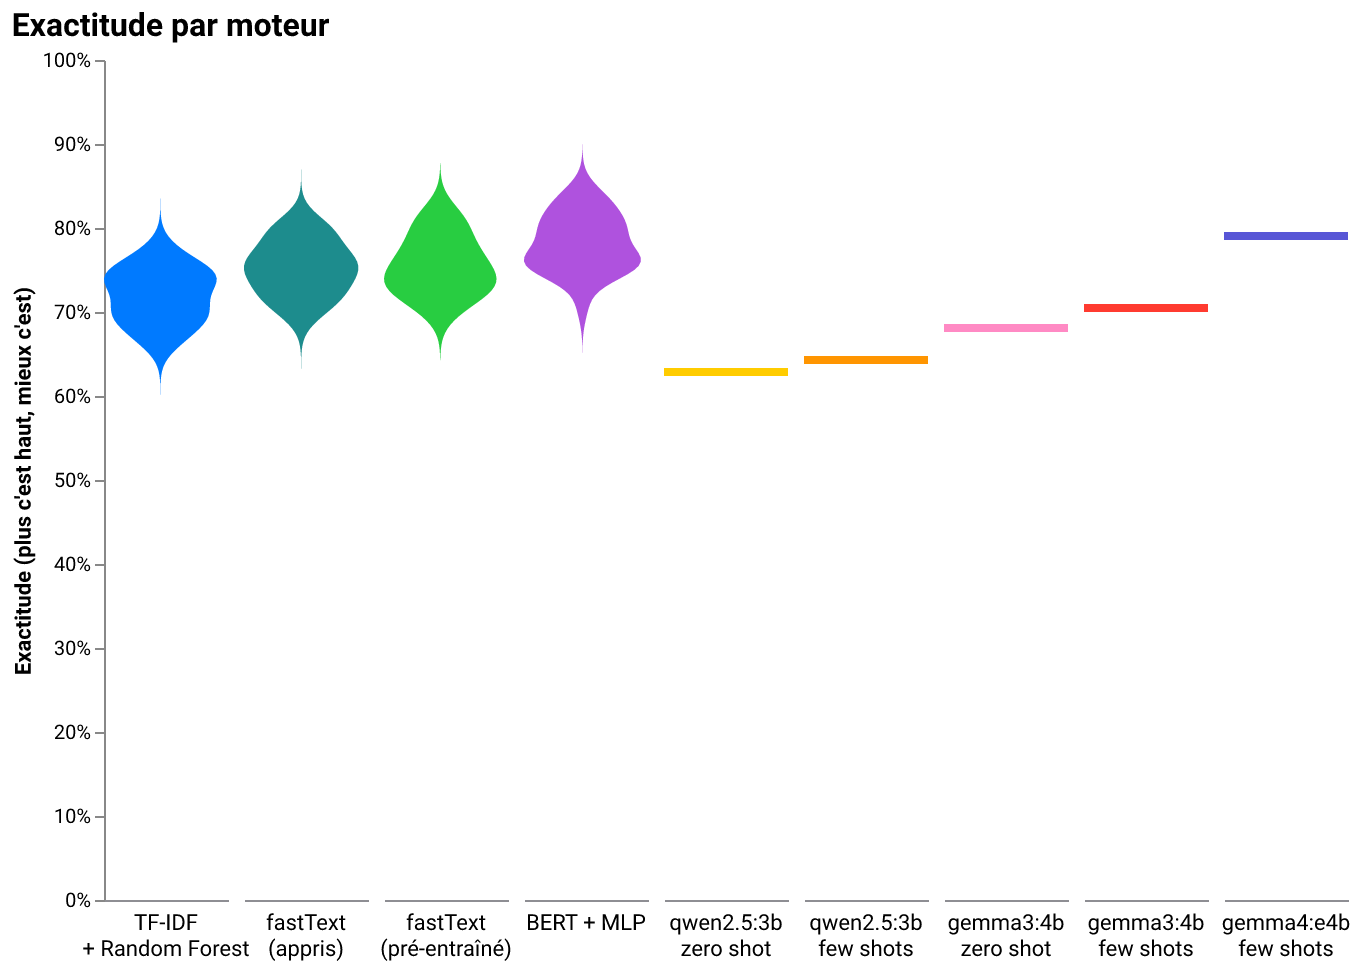
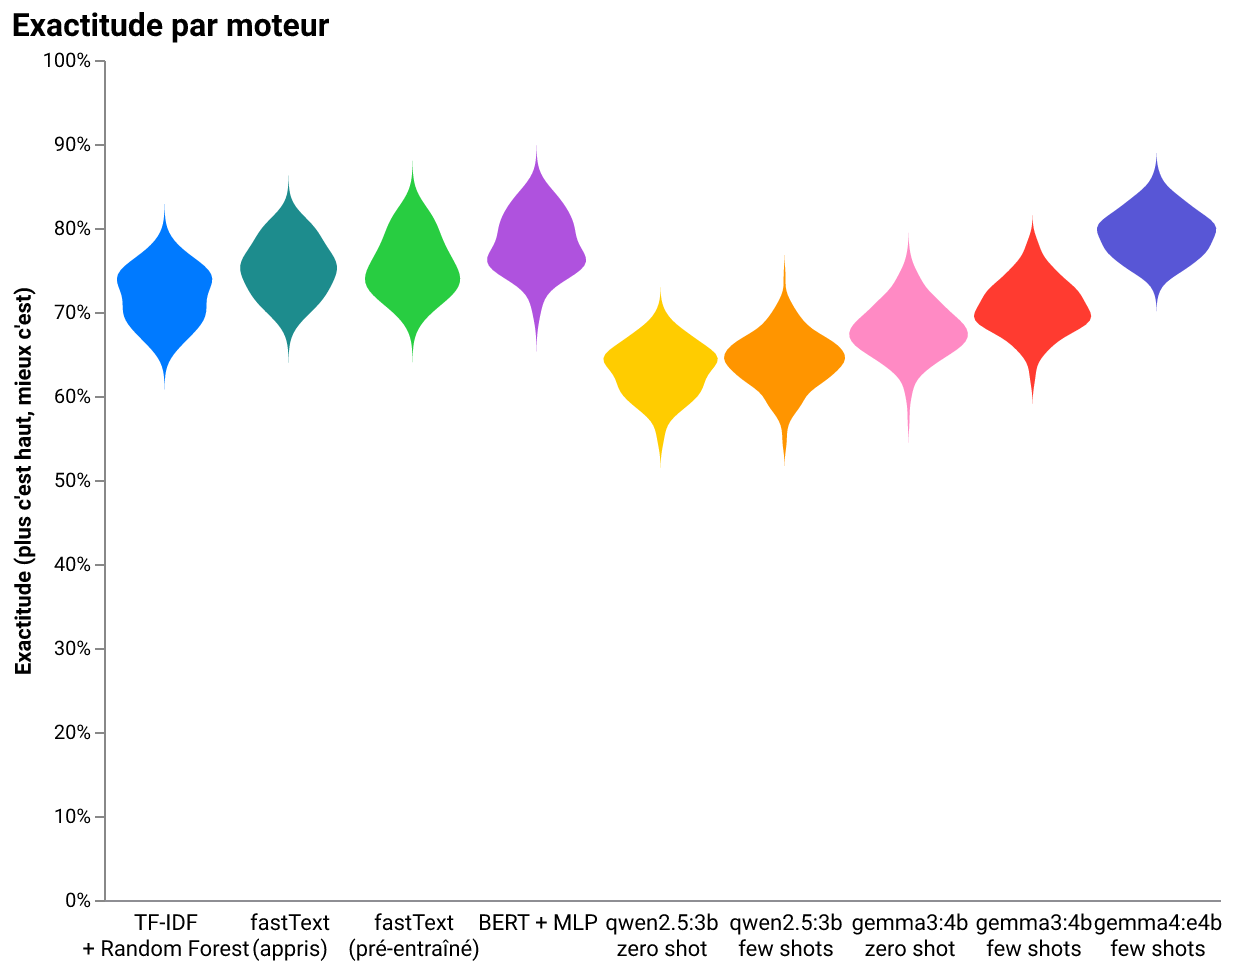
eval: violin plots for all 9 engines (LLM via binomial bootstrap)
Replace the Dirac lines for LLM configs with proper violin plots.
LLM configs now use 200 binomial bootstrap samples drawn at the
observed accuracy on 210 held-out examples — same visual language
as the CV violins, directly comparable, honest about uncertainty.

diff --git a/eval/violin.py b/eval/violin.py
@@ -5,18 +5,17 @@ Module summary
 Two figures, each produced in **French and English** (``-fr`` / ``-en``) so
 each README variant shows a chart in its own language:
 
-* **Cross-validation violins** (``violin-accuracy-{lang}.png``) — for the four
-  *trainable* engines (TF-IDF, the two fastText engines, BERT), one violin
-  per engine built from the **real** accuracies of a repeated 5-fold
-  cross-validation (5 folds × 5 shuffles = 25 measurements). No resampling
-  tricks: every point in the density is a genuine train-on-4/5, test-on-1/5
-  score. The LLM is zero-shot (it never trains), so it has no cross-validation
-  and is discussed in the text, not shown here.
+* **Accuracy violins** (``violin-accuracy-{lang}.png``) — one violin per
+  engine, all 9 side by side. For the four *trainable* engines (TF-IDF, the
+  two fastText engines, BERT), the violin is built from the **real** accuracies
+  of a repeated 5-fold cross-validation (5 folds × 5 shuffles = 25
+  measurements). For the five **LLM** configs, which are zero-shot (no CV),
+  the violin is built from 200 binomial bootstrap samples drawn at the observed
+  accuracy on 210 held-out examples — same visual language, honest about
+  uncertainty, and directly comparable to the CV violins.
 
 * **LLM shootout bars** (``shootout-{lang}.png``) — a plain bar chart of each
-  (model, prompt) configuration's accuracy on the held-out sample. The LLM
-  cannot be cross-validated either, so a clean bar (one number per bar) is the
-  honest picture; the sample size and caveats live in the surrounding text.
+  (model, prompt) configuration's accuracy on the held-out sample.
 
 The charts are deliberately **minimal** (title + axis, house palette). All the
 methodology — how many intents, how many training examples, what the test set
@@ -36,6 +35,8 @@ from __future__ import annotations
 import json
 import logging
 from pathlib import Path
+
+import numpy as np
 
 logger = logging.getLogger(__name__)
 
@@ -206,13 +207,28 @@ _BASE_CONFIG = {
 }
 
 
+_N_BOOTSTRAP = 200
+_N_HELD_OUT = 210
+_RNG = np.random.default_rng(seed=42)
+
+
+def _bootstrap_llm(acc: float, n: int = _N_HELD_OUT, b: int = _N_BOOTSTRAP) -> list[float]:
+    """Return ``b`` bootstrap accuracy samples for an LLM with observed ``acc`` on ``n`` examples.
+
+    Each sample is drawn as Binomial(n, acc)/n — the exact distribution of
+    the held-out accuracy estimator under i.i.d. Bernoulli trials.
+    """
+    return (_RNG.binomial(n, acc, size=b) / n).tolist()
+
+
 def build_cv_spec(cv_results: dict, shootout_results: dict, lang: str) -> dict:
-    """Build the all-8-engines accuracy figure in ``lang``.
+    """Build the all-9-engines accuracy figure in ``lang``.
 
     One column per engine, in :data:`ENGINES` order, coloured by the shared
-    palette. The four **trainable** engines are smooth CV **violins** (25 folds
-    each); the four **LLM** configs are single held-out accuracies, each drawn
-    as a **Dirac** — one horizontal line (no width = no distribution).
+    palette. All engines are rendered as **violins**: the four *trainable*
+    engines use their real CV fold accuracies (25 folds); the five **LLM**
+    configs use 200 binomial bootstrap samples drawn at the observed held-out
+    accuracy — same visual language, directly comparable.
 
     Parameters
     ----------
@@ -226,13 +242,13 @@ def build_cv_spec(cv_results: dict, shootout_results: dict, lang: str) -> dict:
     Returns
     -------
     dict
-        A Vega-Lite v5 faceted, layered specification.
+        A Vega-Lite v5 faceted specification.
     """
     cv: dict[str, list[float]] = cv_results.get("cv", {})
     llm_accs = _llm_accuracies(shootout_results)
 
-    # One shared dataset; ``kind`` tells violins (many rows) from Diracs (one
-    # row) so the two layers below never collide. Engines kept in ENGINES order.
+    # One shared dataset; all rows are ``kind: "cv"`` so the single violin
+    # layer handles every engine uniformly. Engines kept in ENGINES order.
     rows: list[dict[str, object]] = []
     present: list[str] = []
     colours: list[str] = []
@@ -245,14 +261,13 @@ def build_cv_spec(cv_results: dict, shootout_results: dict, lang: str) -> dict:
             colours.append(eng["color"])
             for value in cv[eng["key"]]:
                 rows.append({"engine": label, "accuracy": value, "kind": "cv"})
-        else:  # llm
+        else:  # llm → bootstrap violin
             if eng["key"] not in llm_accs:
                 continue
             present.append(label)
             colours.append(eng["color"])
-            rows.append(
-                {"engine": label, "accuracy": llm_accs[eng["key"]], "kind": "llm"}
-            )
+            for value in _bootstrap_llm(llm_accs[eng["key"]]):
+                rows.append({"engine": label, "accuracy": value, "kind": "cv"})
 
     color_enc = {
         "field": "engine",
@@ -300,12 +315,11 @@ def build_cv_spec(cv_results: dict, shootout_results: dict, lang: str) -> dict:
             "height": 420,
             "layer": [
                 {
-                    # Violins: the trainable engines, smoothed by KDE. The
-                    # density x-axis is hidden except its bottom *domain* line —
-                    # with facet spacing 0 (below), those per-column lines join
-                    # into ONE straight baseline running left→right at 0 %.
+                    # All engines are now violins (CV folds or bootstrap samples).
+                    # The density x-axis is hidden except its bottom *domain* line —
+                    # with facet spacing 0, those per-column lines join into ONE
+                    # straight baseline running left→right at 0 %.
                     "transform": [
-                        {"filter": "datum.kind === 'cv'"},
                         {
                             "density": "accuracy",
                             "groupby": ["engine"],
@@ -333,13 +347,6 @@ def build_cv_spec(cv_results: dict, shootout_results: dict, lang: str) -> dict:
                         },
                         "color": color_enc,
                     },
-                },
-                {
-                    # LLM Diracs: one horizontal line per config at its held-out
-                    # accuracy (no width = no distribution).
-                    "transform": [{"filter": "datum.kind === 'llm'"}],
-                    "mark": {"type": "rule", "size": 4},
-                    "encoding": {"y": y_enc, "color": color_enc},
                 },
             ],
         },